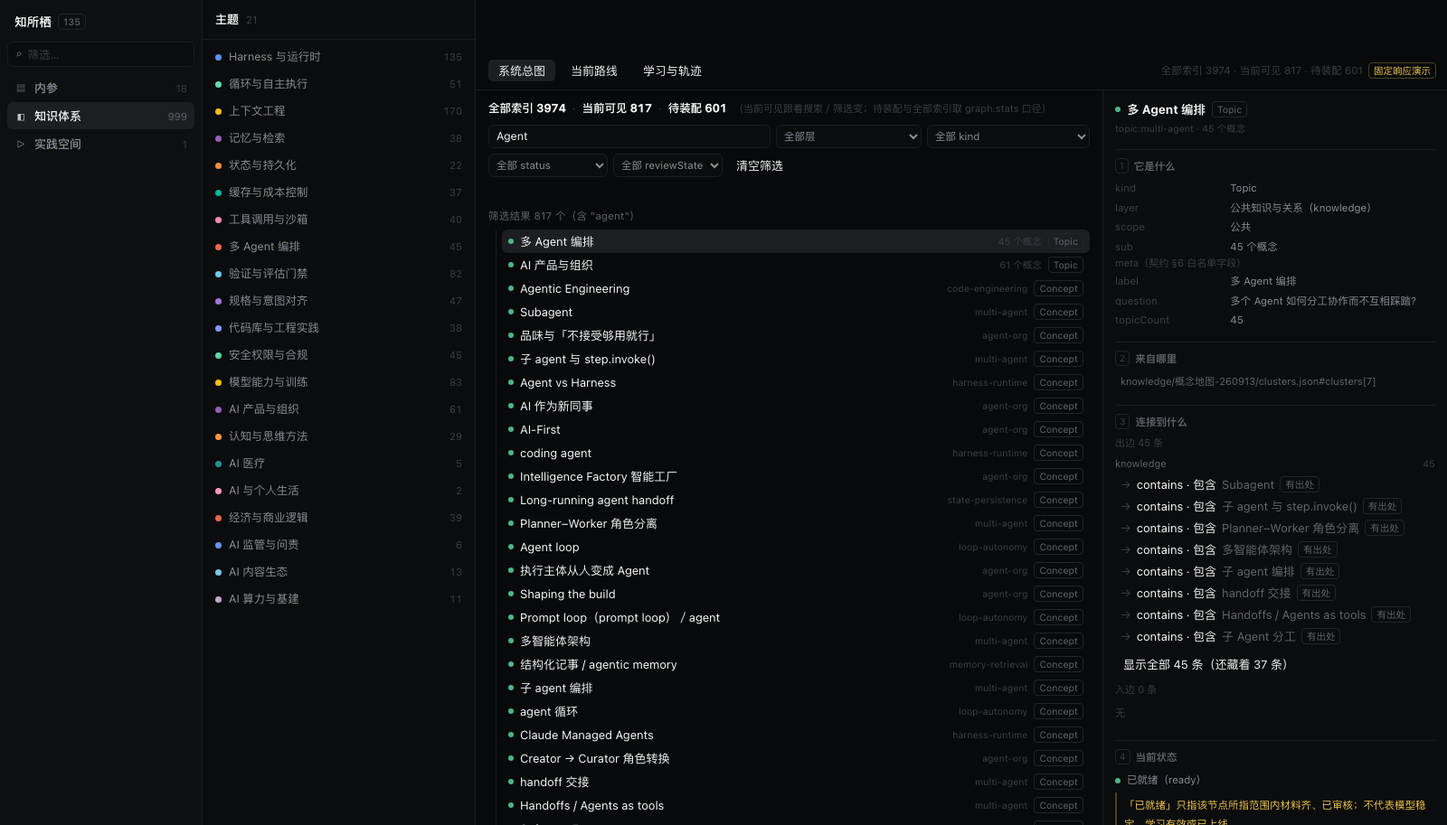
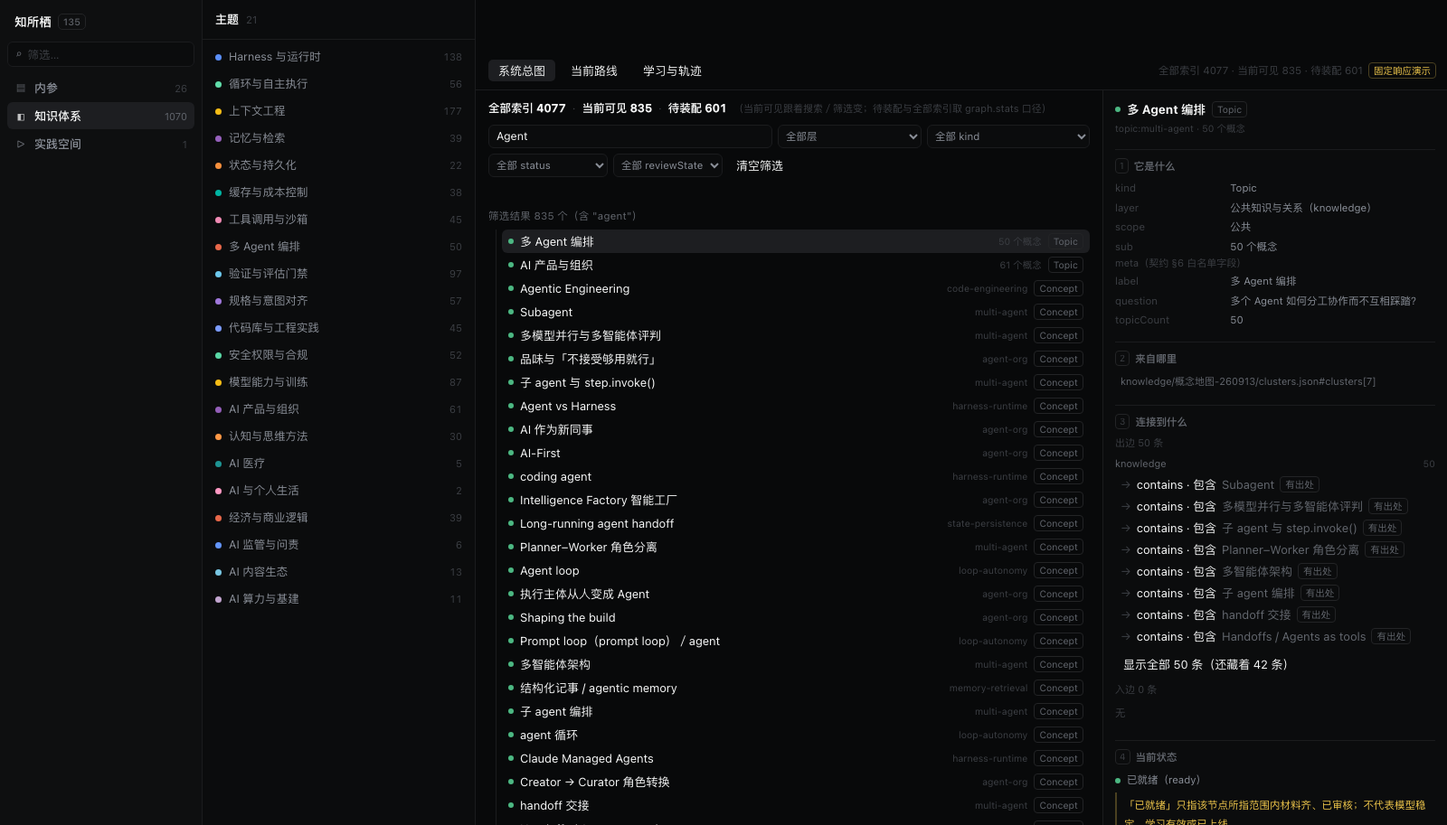
docs: 导航数字按实测改准（1070 概念 / 681 依赖 / 内参三期 / graph 4077·12837·181；check-graph 465 · check-learning-materials 363）＋工作日志第二十四轮

diff --git a/SOURCE_OF_TRUTH.md b/SOURCE_OF_TRUTH.md
@@ -7,13 +7,13 @@
 | 要找什么 | 去哪里 | 当前状态／备注 |
 |---|---|---|
 | **全景：三场会 → 做到哪了 → 方向 → 时间线**（「把最近所有东西拉出来看」的入口）★ | `docs/全景-三场会与当前进展-知所栖135.md` | 09-13 02:1x 建。三场会逐场写「定了什么 / **没定的**」＋ 六轮建设对照 ＋ 方向（做什么、明确不做什么、评审权重怎么读）＋ 到 09-19 的**绝对**时间线 ＋ 四项提交材料现状 ＋ 11 条缺口。**三条最要紧的**：① 三场会**没有任何一场产出过分工**（09-10 原话「那我们就先不分工嘛」），现行 12 条边 RACI 是工程侧单方写的、**主负责人还没认领**；② 手上这张公网 Demo **是壳、不是 135 主流程**（线上 0 处「本次尚未验收」）；③ 02:0x–02:2x 之间 `SOURCE_OF_TRUTH.md` 行 9 被**另一个会话**整体改写过（1156/647/4554/22 → 856/491/3293/21）——**这个仓库有并发写**，引用数字前先现查数据文件 |
-| **概念地图 v2（2026-09-13 全量替换旧 194 概念池；09-14 剔除非 AI 概念）** ★ | `knowledge/概念地图-260913/`（topics **999** · dependencies **632** · relations 3410 · clusters 21 · manifest · schema）＋ `knowledge/概念wiki-260913/`（999 页概念页 ＋ `[[双链]]` ＋ index/log/README） | **当前概念唯一真源**。三源＝用户 Notion 概念库 509（含逐页正文）＋ 飞书 Context Engineering 28 篇 ＋ Harness Engineering 30 篇；源快照冻结在 `evidence/概念源-260913/`（含 `SHA256SUMS.txt`），Notion 全程只读。地图照 <https://github.com/withmarbleapp/os-taxonomy>，链接层照 <https://github.com/nashsu/llm_wiki>。管线 `scripts/cm-*.mjs`（七步，两次 LLM 都带缓存可断点重跑）；体检 `node scripts/cm-validate.mjs`。**旧 194 概念池退役**，只在 `build-shell.mjs --legacy` 里留回退分支。**已按「只要 AI 的」过滤两轮**：① 09-13 按批判 1156 → 856（删 300 条非 AI，逐条带理由留 `evidence/cm-260913/07-ai-filter.json`，没物理删除）；② 09-13 并入第四个源「AI 内参 260912」（10 篇概念辞典 88 条 → 8 条撞上已有、80 条新增）→ 856 → 936；③ **09-14 逐条全量复判**（`scripts/cm-audit-context-ai.mjs`，只读；报告 `evidence/cm-260913/09-context-ai-audit.json`）判出 **18 条漏网非 AI**（neican 12 · notion 4 · harness 1 · context 1）→ `scripts/cm-drop-non-ai.mjs` 落盘 → **936 → 918**。壳里内参那一栏的 88 张概念卡 **76/88 能点回地图**（被删的 12 条内参概念从未被内参卡引用）。**每条依赖都带审核结论**（yes / weak 已降 soft / reversed-fixed；判否的边留 `rejected` 可翻案）。最终抽检：定义有原文支持 88%、**无编造**、领域 100%、依赖边成立 87.5%。**09-14 再并入第四源的第二期**：内参 260913 期 86 个概念 → 撞上已有 5 · **新增 81 节点 ＋ 41 条边**（`node scripts/cm-add-neican.mjs --issue=260913`；918→999 / 591→632；记账 `evidence/cm-260913/08-neican-merge-260913.json`，改前备份 `*.pre-neican-260913.bak`）。**已知缺口**（274 个孤立点、61 个无入链页）见下两行 |
+| **概念地图 v2（2026-09-13 全量替换旧 194 概念池；09-14 剔除非 AI 概念）** ★ | `knowledge/概念地图-260913/`（topics **1070** · dependencies **681** · relations 3459 · clusters 21 · manifest · schema）＋ `knowledge/概念wiki-260913/`（1070 页概念页 ＋ `[[双链]]` ＋ index/log/README） | **当前概念唯一真源**。三源＝用户 Notion 概念库 509（含逐页正文）＋ 飞书 Context Engineering 28 篇 ＋ Harness Engineering 30 篇；源快照冻结在 `evidence/概念源-260913/`（含 `SHA256SUMS.txt`），Notion 全程只读。地图照 <https://github.com/withmarbleapp/os-taxonomy>，链接层照 <https://github.com/nashsu/llm_wiki>。管线 `scripts/cm-*.mjs`（七步，两次 LLM 都带缓存可断点重跑）；体检 `node scripts/cm-validate.mjs`。**旧 194 概念池退役**，只在 `build-shell.mjs --legacy` 里留回退分支。**已按「只要 AI 的」过滤两轮**：① 09-13 按批判 1156 → 856（删 300 条非 AI，逐条带理由留 `evidence/cm-260913/07-ai-filter.json`，没物理删除）；② 09-13 并入第四个源「AI 内参 260912」（10 篇概念辞典 88 条 → 8 条撞上已有、80 条新增）→ 856 → 936；③ **09-14 逐条全量复判**（`scripts/cm-audit-context-ai.mjs`，只读；报告 `evidence/cm-260913/09-context-ai-audit.json`）判出 **18 条漏网非 AI**（neican 12 · notion 4 · harness 1 · context 1）→ `scripts/cm-drop-non-ai.mjs` 落盘 → **936 → 918**。壳里内参那一栏的 88 张概念卡 **76/88 能点回地图**（被删的 12 条内参概念从未被内参卡引用）。**每条依赖都带审核结论**（yes / weak 已降 soft / reversed-fixed；判否的边留 `rejected` 可翻案）。最终抽检：定义有原文支持 88%、**无编造**、领域 100%、依赖边成立 87.5%。**09-14 再并入第四源的第二期**：内参 260913 期 86 个概念 → 撞上已有 5 · **新增 81 节点 ＋ 41 条边**（`node scripts/cm-add-neican.mjs --issue=260913`；918→999 / 591→632；记账 `evidence/cm-260913/08-neican-merge-260913.json`，改前备份 `*.pre-neican-260913.bak`）。**09-14 深夜再并入第三期**：内参 260914 期 79 条概念 → 撞上已有 8 · **新增 71 节点 ＋ 49 边**（`--issue=260914`；**999→1070 / 632→681**；记账 `evidence/cm-260913/08-neican-merge-260914.json`）。**已知缺口**（274 个孤立点、61 个无入链页）见下两行 |
 | **概念地图 v2 完整说明**（三源、管线、审核一轮、数字、验收、没做的） | `docs/概念地图v2-三源替换-20260913.md` | 09-13 建；查「概念从哪来」「为什么依赖边只剩 491 条」「Notion 里那些非 AI 概念为什么在」先读它 |
 | **概念地图 v2 审核报告**（结构体检 + 分层抽检，给人看的那份） | `docs/概念地图v2-审核报告-20260913.md` | 09-13 建；**上线前的审核依据**。含 3 个已修 bug、可疑清单逐条带理由、审核前后对比。全量判决原始记录在 `evidence/cm-260913/06-audit-full.json`（**注意：该文件的 `concepts` 是空的 —— 全量概念审核的逐条记录没落盘，现存只有 `06-audit.json` 里的 60 条抽检；边的逐条判决在 `06-audit-full.json`，681 条：yes 315 / weak 320 / no 37 / reversed 9。2026-09-13 02:2x 实测**） |
 | **五语义内容工程（问题/概念/观点/案例/方案）** ★ | `内容结构化系统/`（538 单元：概念 76 · 方案 76 · 案例 76 · 观点 169 · 问题 141；7 张主题地图 · 2 份选题装配稿） | 09-13 建，`dbs-content-system` 形态。**三源与概念地图 v2 同源**（两份飞书主题精选 ＋ 图鉴站 76 张已审计概念卡），但产物不同：这里拆的是「一鱼多吃」要用的五类语义单元，供决策场/实验台/费曼验收取用。**0 次 LLM 调用**（复用 + 确定性解析）。先读 `内容结构化系统/03-处理状态/处理状态总览.md`（含 5 条已知问题：去重候选 16,025 条失控、76 个案例全是假设场景等）。交付与调用入口见 `docs/交付包-基本盘与五语义-20260913.md` |
 | **单概念学习 MVP：上下文腐烂** ★ | `prototype/mvp-decision-context-rot.html` · `scripts/test-mvp-learning.mjs` · `scripts/walk-mvp-real-llm.mjs` · `evidence/mvp-context-rot-acceptance-260913.md` · `docs/企划书-135-MVP到DeepSeek执行-20260913.md` · `docs/交接-DeepSeek-Harness-135-MVP扩展-20260913.md` | 09-13 实测：一个 CON + 一个主 CAS（明确为假设场景）→ context 阅读 → 一题一判 × 3 → 费曼；黑盒全过、0 JS 报错。**09-13 深夜补做真模型走查**（`walk-mvp-real-llm.mjs`）：真调 `/api/llm` 走完阅读 → 三题（第一题先答错）→ 费曼「未通过（列 3 个漏点）」→ 补齐 →「通过」，2 次真实调用、0 次知乎请求。**这一章仍是独立 MVP 入口、未接回概念卡；不接知乎 API，不改概念地图源数据。** |
 | **Agent Loop 六章 ＋ 独立学习空间** ★ | `evidence/agent-loop-260913/`（`pairings.json` 材料配对 · `authored.json` 题目与费曼要点 · `chapters.json` 装配产物 · `acceptance.md` 验收 · `learn-real-llm-walk-*.json` 真模型走查）· `scripts/build-learning-materials.mjs` · `scripts/check-learning-materials.mjs` · `scripts/test-learn-agent-loop.mjs` · `scripts/walk-learn-agent-loop.mjs` · `docs/交付回执-AgentLoop六章-20260913.md` | 09-13 深夜建。按 `docs/企划书-135-MVP到DeepSeek执行-20260913.md` 的方法，把 `evidence/paths-260913/routes.json` 那条人工路线**六步逐章装配**（Agent → 工具 → Agent loop → 状态子系统与进度持久化 → Harness → 验证闭环）：一个核心概念（cm_* ↔ CON-* 逐章登记对应依据与口径差异）→ 原文 context＋定义/直觉/机制/边界 → 三道决策（一题一判，18 个正确选项全部带 OPI／SOL 逐字依据）→ 费曼收尾（六套要点按章不同）。**六章主案例已由负责人确认（2026-09-14，原话「确定」）→ 六章 `ready`**；确认的是「选哪个当主案例」，**六章 CAS 仍是「假设场景」**，页面照原样显示该标记、不写成真实复盘。第 1 章口径已裁决：以 `CON-agent`「Agent 不等于 LLM」为准，概念地图卡的最小配置口径只作原文保留并标「不作本章定义」。学习空间做在壳里（全屏 `#learn`，进入时 DOM 隐藏左栏／主题列表／画布），入口＝路径条「学习这个 · 第 N 章」＋概念卡＋实践空间，`#learn=<chapterId>` 也受解锁门约束（只有带 `&review=1` 才直达，供审核／复现）；**费曼未通过／待复核都不解锁下一章，重新编辑复述立刻清掉通过状态**。**09-14 补修五项**：选项顺序按「章+题号」稳定打乱（原来 18 题里 12 题正解都在第 2 位、16 题正解是最长项）· 提交中锁住复述框＋判定代次号作废旧结果 · 草稿改动即落盘 · 通过后下一章按钮立刻解锁 · 地址入口不再绕过解锁。**09-14 六章全上「正文流」＋ 来源链进页面**：概念之间的连线写成正文里的解释句（每章导语 ＋ 过渡句 2—3 条 ＋ 关系句 3 条，各带逐字原文，页面标明 agent 撰写；第 6 章末尾改为「这条路线各自解决哪一步」）、费曼输入框挪到阅读之后（读完就讲）、右栏＝本次课题的六步单元；**来源链** `scripts/build-source-chain.mjs` → `source-chain.json`：58 篇（Context 28 ＋ Harness 30）→ **49 个原始来源**（article 31 · post 10 · documentation 5 · paper 2 · research 1）→ **76 张卡片**，49/49 来源标题能在 58 篇里逐字找到（这是「58 篇是根」的可核对证据；两边互不引用，所以「图鉴站是否以 58 篇为语料」仍是未知），页面「阅读」块显示知识根并给可点开的原始来源。实测：材料体检 **344/344** · 学习空间黑盒 **72/72 ＋ 0 JS 报错** · 真模型走查**六章各一次**（共 12 次真实调用，每章均「未通过→补齐→通过」）· 回归 `test-path`（56）／`test-case-mvp`／`test-daobi`／`shot-shell`／`check-public`／`paths-validate` 全过。**未做**：不接知乎 API · 不做 03/05 · 不让模型规划路线 · 不改概念地图源数据 · 未重建/未发布公网产物（`build-public.mjs` 新增边界：非 `ready` 章节一律从公网剥离）· 未 push |
-| **内参日报（两期：260912 五维拆解版 · 260913 三产物版）** | `knowledge/内参-260912/`（日报 md/html · 三级笔记/概念辞典/AI费曼 ×10 篇 · 拆解五维 ×10）· `knowledge/内参-260913/`（8 篇：原文快照 ＋ 三级笔记/概念辞典/AI费曼 ＋ `issue.json` ＋ 日报-260913.md）· `knowledge/llm-wiki/概念池-260912.json`（1830 唯一概念，四源合并） | 09-12 深夜建。流水线：Readwise 今日精选 → 三产物（note-taking-pro / concept-learning SOP）→ 五维拆解（3概念/1阅读梯度/3决策/5实验/费曼要点）。脚本 `scripts/build-daily-260912.mjs` · `build-deconstruct-260912.mjs` · `build-concept-pool.mjs` · `build-neican.mjs`（带缓存可断点重跑）。跳过记账 1 篇（The Information 反爬）。**这一期 10 篇已按「AI 内参」图文格式接进壳的第六格「内参」**（主题 / 重要等级 / 地址 / Claude 风格配图 / 原文子链接 / 简介 / 入选理由 / 三级笔记 / 概念网络 / 费曼 ×3，无收藏与公开笔记 —— 见 `docs/内参一栏-AI内参格式-20260912.md`）。**09-14 加 260913 期**（口径：昨天＝目标日当天 Inbox，按 `saved_at` 严格筛，**RSS 订阅流不算**——当天 70 条订阅流另有快照留证）：`scripts/pull-readwise-inbox.mjs --date 2026-09-13` → `scripts/build-neican-daily.mjs --issue 260913`（8 篇 × 3 产物 = 24 次真调用 / 319,110 tokens）→ `build-neican.mjs --issue 260913`（8 次 / 19,653 tokens）。**壳的内参栏改成多期「日报集合」**：**中间那一栏（`#list`）＝月历选日期（有内参的日子点亮 / 选中橙色 / 没内参灰掉，`‹ ›` 翻月，底下 `全部 N 期 · M 篇`）→ **分类**（条目类型）→ **策展**（重要等级；两组可折叠/叠加/清空。「标签」那组 2026-09-14 按所有者口径撤掉：标签口径不确定就不摆），**篇目不再列在中间栏**，全部在主区**按期倒序的日报卡**里（点一篇进单篇阅读），点一篇进单篇阅读（2026-09-14 所有者口径：「日期放在上方。中间的阅读位置替换为内参日报集合」）。260912 期的独立公网页 <https://hou-152.github.io/zhisuoqi-135/neican/260912.html> 保持不动；**公网单文件现在自带两期集合**，`neican/260913.html` 没做（集合已覆盖，另开一页是重复）。全文与概念池只在私有 src 仓库，不上公网 |
+| **内参日报（三期：260912 五维拆解版 · 260913 / 260914 三产物版）** | `knowledge/内参-260912/`（日报 md/html · 三级笔记/概念辞典/AI费曼 ×10 篇 · 拆解五维 ×10）· `knowledge/内参-260913/`（8 篇：原文快照 ＋ 三级笔记/概念辞典/AI费曼 ＋ `issue.json` ＋ 日报-260913.md）· `knowledge/内参-260914/`（8 篇：同 260913 口径；Bengio《What can be done to mitigate loss-of-control risks》＋ `cursor.com/cn/learn` 官方文档 7 篇）· `knowledge/llm-wiki/概念池-260912.json`（1830 唯一概念，四源合并） | 09-12 深夜建。流水线：Readwise 今日精选 → 三产物（note-taking-pro / concept-learning SOP）→ 五维拆解（3概念/1阅读梯度/3决策/5实验/费曼要点）。脚本 `scripts/build-daily-260912.mjs` · `build-deconstruct-260912.mjs` · `build-concept-pool.mjs` · `build-neican.mjs`（带缓存可断点重跑）。跳过记账 1 篇（The Information 反爬）。**这一期 10 篇已按「AI 内参」图文格式接进壳的第六格「内参」**（主题 / 重要等级 / 地址 / Claude 风格配图 / 原文子链接 / 简介 / 入选理由 / 三级笔记 / 概念网络 / 费曼 ×3，无收藏与公开笔记 —— 见 `docs/内参一栏-AI内参格式-20260912.md`）。**09-14 加 260913 期**（口径：昨天＝目标日当天 Inbox，按 `saved_at` 严格筛，**RSS 订阅流不算**——当天 70 条订阅流另有快照留证）：`scripts/pull-readwise-inbox.mjs --date 2026-09-13` → `scripts/build-neican-daily.mjs --issue 260913`（8 篇 × 3 产物 = 24 次真调用 / 319,110 tokens）→ `build-neican.mjs --issue 260913`（8 次 / 19,653 tokens）。**09-14 深夜加 260914 期**（同口径：当天 Inbox；同期订阅流 100 条不纳入）：`pull-readwise-inbox.mjs --date 2026-09-14` → `build-neican-daily.mjs --issue 260914`（8 篇 × 3 产物 = 24 次真调用 / 208,915 tokens）→ `build-neican.mjs --issue 260914`（8 次 / 20,253 tokens）；概念辞典 79 条并入地图（新增 71 节点 ＋ 49 边）。**壳的内参栏改成多期「日报集合」**：**中间那一栏（`#list`）＝月历选日期（有内参的日子点亮 / 选中橙色 / 没内参灰掉，`‹ ›` 翻月，底下 `全部 N 期 · M 篇`）→ **分类**（条目类型）→ **策展**（重要等级；两组可折叠/叠加/清空。「标签」那组 2026-09-14 按所有者口径撤掉：标签口径不确定就不摆），**篇目不再列在中间栏**，全部在主区**按期倒序的日报卡**里（点一篇进单篇阅读），点一篇进单篇阅读（2026-09-14 所有者口径：「日期放在上方。中间的阅读位置替换为内参日报集合」）。260912 期的独立公网页 <https://hou-152.github.io/zhisuoqi-135/neican/260912.html> 保持不动；**公网单文件现在自带三期集合**，`neican/260913.html` / `neican/260914.html` 没做（集合已覆盖，另开一页是重复）。全文与概念池只在私有 src 仓库，不上公网 |
 | **09-12 凌晨回填**（dbs-learning-beta、AB 测试、记忆方案 5 路极端推演） | `docs/交接-agent版-知所栖135.md` 开头的「09-12 凌晨回填」节 | 最新；**含对本文件下方记忆方案假设的推翻**，冲突时以该节为准 |
 | **对话总索引＋未落地清单**（全部 58 个对话的清单、产出映射、未落地结论差距分析、未裁决事项真实状态） | `docs/对话总索引-知所栖135.md` | 09-12 建；查「某个结论是从哪次对话来的」「哪条结论只在对话里没落盘」先读它 |
 | **对话原始留档**（DSH 56 + ZCode 2 个会话的可读 Markdown，只读证据） | `evidence/对话留档-知所栖135/`（含 `README.md` 与 `_index.json`） | 09-12 建；**不是结论**，结论仍以本文件与 `docs/`、`research/` 为准 |
@@ -44,19 +44,19 @@
 | **交给 Codex 的重构交接件** ★ | `docs/交接-Codex重构版-知所栖135.md` | **09-12 建，给「重构」用**（不是给继续加功能用）。只读这一份就能动手：代码真实形状（四个产物/三条构建链/两个 HTML 零共享代码/概念池解析重复 8 遍/LLM 样板重复 10 遍）· **重构要解决的 8 个问题（逐条带文件行号）** · 死件清单（`mcp.html` 263KB 零引用等）· 硬边界 · 改完必须跑过的 6 个验收 + 5 条铁律 · D1–D6 决策状态 · 已核实/未核实 · **7 条未决事项** · 建议的重构顺序（前两步零行为变更）。**注：`交接-Codex执行版` 写于 09-12 07:3x，代码部分已被第二轮覆盖，勿再当代码依据** |
 | 交给 Codex 执行的交接件（**代码部分已过期**）（要做什么 / 边界 / 验收 / 任务清单 / **方法与参考来源总表** / **APP 视图规格** / **三条线合流**） | `docs/交接-Codex执行版-知所栖135.md` | 09-12 建并当日补章；**只承载任务，不承载事实**，事实冲突仍回 agent 版。含：决策状态快照 D1–D6、执行清单 E1–E11、目标形态与打包选型、**§11 方法总表**、**§12 参考来源总表**（GitHub/官方标准/学习科学文献，已核实与未核实分栏）、**§13 部署候选评估**、**§14 APP 视图规格（Linear 式，含「待判断 266」队列）**、**§15 概念框架与推进计划**、**§16 三条线合流（知乎 API × dbs-standard-answer × dbs-learning-beta）** |
 | 可演示主产物 | `prototype/知所栖-135-基础框架.html` | v3.1，双击可开；61/61 自动验证通过；费曼验收层已加「限速器」。09-12 07:43 由 Codex 修过模式状态与费曼兜底（提交 `8360359`） |
-| **壳：知识体系 + 内参两栏**（**09-13 减法后**——旧版是「图 + 框架 + agent 三合一」） | `prototype/知所栖-壳.html` | **09-13 03:1x 按所有者指令做减法**（原话：「只保留内参+知识体系。知识体系直接按主题分，也就是把那个策展的功能给取代掉了。然后『我在学』和『对话』，还有下面这个栏，该做减法的就做减法，因为到时候要去交给我的队友去做另外的一些功能」）。**tab 板（图谱 / 星球）09-13 提到三栏之上**：横跨列表栏与主区、位于「知识体系」那一行**上方**，导航栏跨两行一路到底（所有者要求「内层的 tab 板要在更上方，优于知识体系」）。**左栏＝品牌 + 搜索框 + 两个导航项 + 主题分类列表**（21 条；样式照所有者给的 candobear BoK 参考图：分组标题「主题」+ 右侧「全选」，每行 8px 彩点 + 名称 + 右对齐数字；点一条＝只看这一列、再点取消）——追加① 曾把这块整片删掉，追加③ 按参考图做回来。09-13 第二轮补删又去掉了左栏的「主题 · 点击筛选」标题、21 条主题图例、底部 `0 0 0 ／936` 状态点（现为 918）（所有者：「都不要了」）；**画布上仍按 21 个主题分列**（`groups()` / `giOf()` 没动），只是不再在左栏列第二遍。**底部 `import`/`insert`/`Agent` 那条栏整条删除**；横轴**固定按主题分列**（21 条线），旧的「怎么验 / 按来源」两档与 `setAxis` 一起撤掉——验收方式仍逐张写在概念卡上（`KIND`），只是不再当分列轴。**删掉的四个视图**（策展 / 待你看一眼 / 我在学 / 对话）连同代码路径、CSS、`/api/skills` 与 `/api/llm` 的前端调用方一起删；`localStorage` 里的 `marks`（费曼验收记录）保留，概念面板的倒逼判定照旧。模板 1865 → 1160 行，壳 1.20 MB → 1.16 MB（大头是概念 payload，不是代码；09-14 剔除非 AI 后 918 概念 / 1.27 MB）。Linear 式三栏结构不变（导航 224 / 列表 302 / 主区 / 详情 412 停靠让位）。**「内参」一栏（09-14 改成多期集合）**：左栏列表＝**当前选中那期**的篇目（「全部」时按期分组列两期全 18 篇），主区 `#reader` 默认屏是**内参日报集合**——上方粘性日期条（`全部 N 期` ＋ 每期一片：日期 / 星期 / 篇数）＋ 按期倒序的日报卡（期号 · 日期 · 篇数 · 目录：主题 ＋ 原标题 ＋ 一句话主旨 ＋ ★ ＋「读 →」）；点一篇进单篇阅读（三级笔记 / 概念网络 / 费曼 / 阅读原文，有拆解五维的那期多一个「五维」签），正文页的返回键在日期条左侧、常驻可见。**默认不选中任何一期**（`neiPeriod=''`）——中间必须是集合本身，不是某一期。数据＝`knowledge/内参-<期>/内参-页面数据.json` 全部期（`scripts/build-neican.mjs --issue=<期>` 逐期生成，`build-shell.mjs` 装成 `DATA.neican.issues`，新 → 旧）。概念面板的「深看」折叠块（掌握证据 / 验收问句 / 学习时机）不变；**「费曼一下 / 原文 context / 别名」09-13 15:5x 拆门**——原来锁在「过了才给」后面（判过才渲染），现在 918 张卡随时可看，展开**不写任何验收状态**（倒逼状态机没动）；**「来源」由死标签改成可点**（`cm-wire.mjs` 出 `articles` 表：294 条 ＝ 65 篇原文 ＋ 229 个 Notion 页，节点用 `sa` 指过来；卡上列前 6 篇 ＋ 每篇的「同源概念」）。同轮修掉两个真 bug：`sourceContext`（原 919/936）与 `aliases`（原 414/936）**一直没被搬进 payload**，卡上那两栏是空的；`assessmentPrompt` 里 **原 922/936 条**留着未替换的 `{{name}}` 占位符（改在 `cm-wire` 出线前替换；地图 JSON 里仍在）。源：`scripts/shell.template.html` ＋ `scripts/build-shell.mjs`。**09-13 19:2x 加「路径」视图**：主区顶部变成 `路径｜图谱｜关系｜星球`，**路径是默认**；左上 262px 路径条＝方案 B 的导师（第 N 步/共 6 步 · 为什么现在学 · 前置 · 下一步 · 卡住回退 · 分支 ≤2 · 回到全图），画布上路线 6 点标号加亮、当前步白环、其余变灰缩小（仍可点）；概念卡顶部加路径上下文；主题下钻后顶部出现路径入口。**必须经服务打开**：`node scripts/serve-135.mjs` → `http://127.0.0.1:5180/知所栖-壳.html`。**09-13 减法后验收全重跑通过**：`shot-shell.mjs`（13 步 + 0 JS 报错）· `test-daobi.mjs`（29 项）· `check-public.mjs`（21 项）· `test-app.mjs`（12 项）。**09-13 15:5x 追加后重跑**：`test-daobi.mjs` **40 项全过** · `shot-shell.mjs` 0 JS 报错 · `check-public.mjs` 全过（壳 1.39 → 1.76 MB，增的是 sources/context/别名，不是代码） |
+| **壳：知识体系 + 内参两栏**（**09-13 减法后**——旧版是「图 + 框架 + agent 三合一」） | `prototype/知所栖-壳.html` | **09-13 03:1x 按所有者指令做减法**（原话：「只保留内参+知识体系。知识体系直接按主题分，也就是把那个策展的功能给取代掉了。然后『我在学』和『对话』，还有下面这个栏，该做减法的就做减法，因为到时候要去交给我的队友去做另外的一些功能」）。**tab 板（图谱 / 星球）09-13 提到三栏之上**：横跨列表栏与主区、位于「知识体系」那一行**上方**，导航栏跨两行一路到底（所有者要求「内层的 tab 板要在更上方，优于知识体系」）。**左栏＝品牌 + 搜索框 + 两个导航项 + 主题分类列表**（21 条；样式照所有者给的 candobear BoK 参考图：分组标题「主题」+ 右侧「全选」，每行 8px 彩点 + 名称 + 右对齐数字；点一条＝只看这一列、再点取消）——追加① 曾把这块整片删掉，追加③ 按参考图做回来。09-13 第二轮补删又去掉了左栏的「主题 · 点击筛选」标题、21 条主题图例、底部 `0 0 0 ／936` 状态点（现为 918）（所有者：「都不要了」）；**画布上仍按 21 个主题分列**（`groups()` / `giOf()` 没动），只是不再在左栏列第二遍。**底部 `import`/`insert`/`Agent` 那条栏整条删除**；横轴**固定按主题分列**（21 条线），旧的「怎么验 / 按来源」两档与 `setAxis` 一起撤掉——验收方式仍逐张写在概念卡上（`KIND`），只是不再当分列轴。**删掉的四个视图**（策展 / 待你看一眼 / 我在学 / 对话）连同代码路径、CSS、`/api/skills` 与 `/api/llm` 的前端调用方一起删；`localStorage` 里的 `marks`（费曼验收记录）保留，概念面板的倒逼判定照旧。模板 1865 → 1160 行，壳 1.20 MB → 1.16 MB（大头是概念 payload，不是代码；09-14 剔除非 AI 后 918 概念 / 1.27 MB；同日夜并入 260913 / 260914 两期内参概念后 **1070 概念 / 2.0 MB**）。Linear 式三栏结构不变（导航 224 / 列表 302 / 主区 / 详情 412 停靠让位）。**「内参」一栏（09-14 改成多期集合）**：左栏列表＝**当前选中那期**的篇目（「全部」时按期分组列三期全 26 篇），主区 `#reader` 默认屏是**内参日报集合**——上方粘性日期条（`全部 N 期` ＋ 每期一片：日期 / 星期 / 篇数）＋ 按期倒序的日报卡（期号 · 日期 · 篇数 · 目录：主题 ＋ 原标题 ＋ 一句话主旨 ＋ ★ ＋「读 →」）；点一篇进单篇阅读（三级笔记 / 概念网络 / 费曼 / 阅读原文，有拆解五维的那期多一个「五维」签），正文页的返回键在日期条左侧、常驻可见。**默认不选中任何一期**（`neiPeriod=''`）——中间必须是集合本身，不是某一期。数据＝`knowledge/内参-<期>/内参-页面数据.json` 全部期（`scripts/build-neican.mjs --issue=<期>` 逐期生成，`build-shell.mjs` 装成 `DATA.neican.issues`，新 → 旧）。概念面板的「深看」折叠块（掌握证据 / 验收问句 / 学习时机）不变；**「费曼一下 / 原文 context / 别名」09-13 15:5x 拆门**——原来锁在「过了才给」后面（判过才渲染），现在 918 张卡随时可看，展开**不写任何验收状态**（倒逼状态机没动）；**「来源」由死标签改成可点**（`cm-wire.mjs` 出 `articles` 表：294 条 ＝ 65 篇原文 ＋ 229 个 Notion 页，节点用 `sa` 指过来；卡上列前 6 篇 ＋ 每篇的「同源概念」）。同轮修掉两个真 bug：`sourceContext`（原 919/936）与 `aliases`（原 414/936）**一直没被搬进 payload**，卡上那两栏是空的；`assessmentPrompt` 里 **原 922/936 条**留着未替换的 `{{name}}` 占位符（改在 `cm-wire` 出线前替换；地图 JSON 里仍在）。源：`scripts/shell.template.html` ＋ `scripts/build-shell.mjs`。**09-13 19:2x 加「路径」视图**：主区顶部变成 `路径｜图谱｜关系｜星球`，**路径是默认**；左上 262px 路径条＝方案 B 的导师（第 N 步/共 6 步 · 为什么现在学 · 前置 · 下一步 · 卡住回退 · 分支 ≤2 · 回到全图），画布上路线 6 点标号加亮、当前步白环、其余变灰缩小（仍可点）；概念卡顶部加路径上下文；主题下钻后顶部出现路径入口。**必须经服务打开**：`node scripts/serve-135.mjs` → `http://127.0.0.1:5180/知所栖-壳.html`。**09-13 减法后验收全重跑通过**：`shot-shell.mjs`（13 步 + 0 JS 报错）· `test-daobi.mjs`（29 项）· `check-public.mjs`（21 项）· `test-app.mjs`（12 项）。**09-13 15:5x 追加后重跑**：`test-daobi.mjs` **40 项全过** · `shot-shell.mjs` 0 JS 报错 · `check-public.mjs` 全过（壳 1.39 → 1.76 MB，增的是 sources/context/别名，不是代码） |
 | **路径视图**（前置内容／学习路径：一条真实 6 步路线）★ | `evidence/paths-260913/routes.json`（路线配置，**独立于概念图谱**，顺序不写回 `topics.json` / `dependencies.json`）· `scripts/paths-validate.mjs`（体检：ID/预算/分支理由/hard 边对照）· `docs/路径视图-实现-20260913.md`（实现说明）· `scripts/test-path.mjs`（**50 条验收**） | 09-13 19:2x 按 `docs/路径视图-PLAN-20260913.md` ＋ `docs/路径视图-HANDOFF-DeepSeek-20260913.md` 实现（方案 B「导师编排」＋ C「路径地图」）。路线：**Agent → 工具 → Agent loop → 状态子系统与进度持久化 → Harness → 验证闭环**（真实 `cm_*` ID，逐条核过，不许猜）；入口问题「为什么 AI 能连续做事，而不只回答一次？」；主题挂 `loop-autonomy`。四类关系按 HANDOFF §五 映射现有字段（hard/soft ← `dependencies.strength`；support ← 来源＋掌握证据；related ← 非 prerequisite 的关系边），**没改全量关系数据结构**。**必须照实说**：这条路线在 `dependencies.json` 里**一条 hard 前置都没有**（Agent/Harness 是 0 条，其余各 1—2 条 soft），所以顺序**全部来自人工策展**，页面上的「卡住回退」取路线里的上一步并标 `basis: route`，**不冒充 hard**。**没做**：不为 21 个主题批量编路线（只有 1 个主题有）· 不让 LLM 自由规划 · 不改概念地图源数据 · 不改公网产物 · 不 push |
 
 | **新手走查结论**（真实浏览器全流程、2 个 P0 演示风险、6 条卡点） | `docs/新手走查-135原型-260912.md` | 09-12；截图在 `output/playwright/`；**路演前先读，P0 都是改 `prototype/` 前需授权的项** |
 | **每一轮做了什么、验过没有**（09-12 六层重做 → 09-12 内参一栏 → 09-13 概念地图 v2 + 审核 + AI 过滤 + 上线）**的总入口** | `docs/工作日志-知所栖135.md` | **先读这里再读下面**。每轮记起因（所有者原话）、做了什么、落点文件、**没做什么**、验收脚本总表、未决事项、技术债、铁律。各层细节：策展 `docs/策展层-194点10条线-20260912.md` · 倒逼 `docs/倒逼层-概念图不是摆设-20260912.md` · 分类 `docs/分类层-要你怎么处理它-20260912.md` · 外壳 `docs/外壳-Linear三栏-20260912.md` · 桌面 `docs/桌面版-为什么要有它-20260912.md` · 三层 skill 调用 `docs/怎么调用DBS-skill-三层路径.md` |
 | **远程协作与接口机制**（时差怎么补 · 谁交给谁 · 卡住找谁 · 演示怎么走） | `docs/协作机制-远程时差版-知所栖135.md`（四条铁规 · 冻结线 · 班次交接件 5 行 · PR 规则 · 兜底人）· **`docs/接口机制-麦肯锡式-知所栖135.md`**（六个咨询业方法 → 本项目动作 · **12 条边 RACI** · 交接单/异步站会/事前验尸三个模板）· `docs/前端契约-知所栖135.md`（7 接口 · 3 数据源 · 5 屏 · 三个硬要求 · tokens）· `docs/演示脚本骨架-知所栖135.md`（30 秒开场 · 五幕 · 风险对答）· `docs/JTBD-填空版-知所栖135.md`（**6 个空待主负责人填**） | 09-13 建（**此四份此前都不在本导航里**）。**问「谁交给谁、几点前、卡住找谁」先读麦肯锡式那份**；问「字段名是什么」读契约（唯一冻结面：加可、改不可）；问「没有前后端经验怎么办」也从麦肯锡式那份起。**此条 09-13 02:5x 更新：mock 已产出，见下一行**。**仍未解决的**：契约与铁规此前在「改哪个文件」上互相矛盾 —— 5 屏住在 `prototype/知所栖-135-基础框架.html`（手改源文件），不在壳里，而契约 §一 指向 `scripts/shell.template.html`、铁规 2 又写「不碰 `prototype/` 下的产物」；**已修**（契约加文件地图，铁规 2 点名两个产物） |
 | **开工单 ＋ 前端离线开发包（mock）** ★ | `docs/开工单-知所栖135.md`（一页发群件：**形态第一条** ＋ 四个人今天各自的第一件事 ＋ **绝对死线** ＋ 怎么算通过 ＋ 三件必交但无人认领）· `evidence/mock/`（`mock-fetch.js` 丢一行即可**离线开工** · `fixtures.json` 真响应样本 · `screens.md` 5 屏 × 数据 × 状态反馈对照）· 生成 `scripts/make-mock.mjs [--record]` · 验收 `scripts/verify-mock.mjs`（59 项，**不需要 serve**）＋ `scripts/verify-mock-browser.mjs`（11 项，**真无头 Chrome，在 `about:blank` 上跑**） | 09-13 02:5x 建，**59/59 ＋ 11/11 实测通过**（12 条边里唯一缺的交付物，已交）。「前端不连服务就能做 5 屏」是**实跑结论**：浏览器验收先证「不注入 mock 时 `fetch('/api/health')` 到不了后端」，再证注入后四端点全通、费曼两种态都出得来；`__MOCK__.force('…')` 可强制任一状态。mock 里 4 条 `/api/llm` 是**真录**（非占位）：1 阅读 `skill=dbs-learning` 1680 字 · 费曼判定过 `covered:[0,1]` · 漏 `covered:[]` · 失败态 `{error:'llm-not-configured…'}`。**verify-mock 有一半断言去真实源码里现查键名**（`j.items` / `it.excerpt` / `j.content` / `r.covered` / `Data.Items` 大小写坑）——**代码改了字段名这条命令就红**，mock 不会悄悄过期。**形态**（一次一题 · 答完立刻判 · 每题都能点回原文）此前不在任何文件里，已写入 `docs/前端契约-知所栖135.md` 顶部作**契约第一条**；契约 §一 增「前端的文件地图」，§七 由角色名**换成真名**（崇铭／capo／肖力臣／却白）并加「内容 ≠ 文库」术语护栏 |
-| **公网 Demo（赛制必交件）** ✅ | **<https://hou-152.github.io/>**（裸域名，自动跳 135）→ <https://hou-152.github.io/zhisuoqi-135/>；**离线单文件** <https://github.com/hou-152/zhisuoqi-135/raw/main/index.html>（双击就开，不联网） | **09-13 换成「概念地图 v2」终版（当时 936 概念 / 531 依赖 / 21 条线）并已线上核验**（2026-09-13 05:0x 实测：curl 线上 `index.html` 与本地公网仓库 HEAD `b5c5688` **SHA-256 逐字节一致**；页面内 nodes 936 · edges 531 · origin 四源 notion 226 / context 315 / harness 373 / neican 80）（页面内 stats ＋ 对线上地址跑 `check-public.mjs` 全过）。09-12 上线，单文件零依赖零服务端。构建 `scripts/build-public.mjs`（源 `prototype/知所栖-壳.html`）→ `deploy/zhisuoqi-135/`；验收 `scripts/check-public.mjs`（**必须假域名 + `--host-resolver-rules`**，用 127.0.0.1 会走服务端分支）。对话三条路：本地服务端 → 访客自带 key（只进他自己 localStorage）→ 录制回放（**明说不是本次回答**，`scripts/record-replays.mjs`）。**备用通道仍 404**：`deploy/zhisuoqi/dist/135.html` 已放好，要 Codex push 才有 `zhisuoqi.sibohou792.chatgpt.site/135.html`。根站仓库 `deploy/root-site/` 只为堵裸域名 404。**国内可达性**：阿里/DNSPod/360 三大国内 DNS 均返回真 IP（185.199.108-111.153，未被污染），但**无法从墙内直连验证 TCP**。**09-13 减法后**：对话三条路（服务端 / 访客 key / 录制回放）随对话层一起删除，公网版只剩 知识体系（按主题）+ 内参 + 无服务端时的机械兜底判定；`deploy/zhisuoqi-135/index.html` 与 `prototype/知所栖-135-公网版.html` 已重建。**2026-09-14 已 push 上线五次**（公网仓库 `main`：`3d03a60` 日期片版 → `3a6de88` 月历版 → `dfac7e8` 侧栏（主区版）→ `05b6112` 搬进中间栏 + 撤掉篇目列表 → **`6f86913` 撤掉「标签」那组**）：线上＝**999 概念 / 632 依赖 ＋ 内参两期「日报集合」**（上方月历 ＋ 中间日报卡）单文件；**线上 `index.html` 与本地逐字节一致（SHA-256 `388381da…`），并对线上地址跑 `check-public.mjs` 34 项全过**（实测）。**注**：`3a6de88` 从共享壳模板重建，同时带上了并发会话的「五维 · 即时费曼」分页。`deploy/zhisuoqi/dist/135.html`（ChatGPT Sites 备用通道）仍是旧产物、未重建 |
+| **公网 Demo（赛制必交件）** ✅ | **<https://hou-152.github.io/>**（裸域名，自动跳 135）→ <https://hou-152.github.io/zhisuoqi-135/>；**离线单文件** <https://github.com/hou-152/zhisuoqi-135/raw/main/index.html>（双击就开，不联网） | **09-13 换成「概念地图 v2」终版（当时 936 概念 / 531 依赖 / 21 条线）并已线上核验**（2026-09-13 05:0x 实测：curl 线上 `index.html` 与本地公网仓库 HEAD `b5c5688` **SHA-256 逐字节一致**；页面内 nodes 936 · edges 531 · origin 四源 notion 226 / context 315 / harness 373 / neican 80）（页面内 stats ＋ 对线上地址跑 `check-public.mjs` 全过）。09-12 上线，单文件零依赖零服务端。构建 `scripts/build-public.mjs`（源 `prototype/知所栖-壳.html`）→ `deploy/zhisuoqi-135/`；验收 `scripts/check-public.mjs`（**必须假域名 + `--host-resolver-rules`**，用 127.0.0.1 会走服务端分支）。对话三条路：本地服务端 → 访客自带 key（只进他自己 localStorage）→ 录制回放（**明说不是本次回答**，`scripts/record-replays.mjs`）。**备用通道仍 404**：`deploy/zhisuoqi/dist/135.html` 已放好，要 Codex push 才有 `zhisuoqi.sibohou792.chatgpt.site/135.html`。根站仓库 `deploy/root-site/` 只为堵裸域名 404。**国内可达性**：阿里/DNSPod/360 三大国内 DNS 均返回真 IP（185.199.108-111.153，未被污染），但**无法从墙内直连验证 TCP**。**09-13 减法后**：对话三条路（服务端 / 访客 key / 录制回放）随对话层一起删除，公网版只剩 知识体系（按主题）+ 内参 + 无服务端时的机械兜底判定；`deploy/zhisuoqi-135/index.html` 与 `prototype/知所栖-135-公网版.html` 已重建。**2026-09-14 已 push 上线六次**（公网仓库 `main`：`3d03a60` 日期片版 → `3a6de88` 月历版 → `dfac7e8` 侧栏（主区版）→ `05b6112` 搬进中间栏 + 撤掉篇目列表 → `6f86913` 撤掉「标签」那组 → **`aca619d` 加内参 260914 期**）：线上＝**1070 概念 / 681 依赖 ＋ 内参三期「日报集合」**（260914 / 260913 / 260912 共 26 篇；上方月历 ＋ 中间日报卡）单文件；**线上 `index.html` 与本地逐字节一致（SHA-256 `df40b959…`，3,163,654 字节），并对线上地址跑 `check-public.mjs` 全过**（实测）。**注**：`3a6de88` 从共享壳模板重建，同时带上了并发会话的「五维 · 即时费曼」分页。`deploy/zhisuoqi/dist/135.html`（ChatGPT Sites 备用通道）仍是旧产物、未重建 |
 | **桌面版（Electron）：能写真文件的那一版** | `docs/桌面版-为什么要有它-20260912.md`；代码 `app/`；构建 `scripts/build-app.mjs`；验收 `scripts/test-app.mjs` | 09-12 建。网页版做不到的两件事：学习记录落 `~/Documents/知所栖-135/学习记录.json`（不是 localStorage）+ skill 产物落 `产物/<课题>.md`（**`dbs-learning-beta` 的 SKILL.md 写死的那条路径第一次被兑现**）。打包 macOS arm64 306MB 解包 / 122MB zip，**未签名未公证**。**不内置 key**（`/api/health` 回 `llm:false` 是对的），构建时自检扫 `.private/` 类文件，命中即失败 |
 | **本地服务（唯一一份）+ 全部验收脚本** | 服务本体 `scripts/serve-lib.mjs`（**命令行壳与桌面版 import 同一份**）→ 壳 `scripts/serve-135.mjs`（5180）· `app/main.js`（随机端口）。验收：`scripts/verify-135.mjs`（61 项）· `test-daobi.mjs`（40）· `test-path.mjs`（50）· `paths-validate.mjs`（路线体检）· `check-public.mjs`（23）· `shot-shell.mjs`（截图+越界断言）· `test-app.mjs`（12，桌面版）· `ab-feynman-test.mjs`（AB）。**概念地图 v2 管线**：`cm-fetch-notion.mjs` · `cm-extract.mjs` · `cm-merge.mjs` · `cm-enrich.mjs` · `cm-edges.mjs` · `cm-build-map.mjs` · `cm-build-wiki.mjs` · `cm-wire.mjs` · `cm-validate.mjs`。构建/生成：`build-shell.mjs` · `build-public.mjs` · `build-app.mjs` · `build-neican.mjs --issue=<期>` · `pull-readwise-inbox.mjs --date=YYYY-MM-DD`（Readwise Inbox 当日新增收藏 → 原文快照 ＋ issue.json）· `build-neican-daily.mjs --issue=<期>`（三产物：三级笔记/概念辞典/AI费曼）· `record-replays.mjs`；（旧 194 池管线 `curate-concepts.mjs` · `curate-edges.mjs` · `classify-concepts.mjs` 保留但已不在主链上）。接口：`/api/health` `/api/skills` `/api/search` `/api/llm` `/api/save` `/api/data` | 见工作日志「验收脚本总表」。**09-12 修三处**：① `decodeURIComponent(url.pathname)`——此前百分号编码不解码，**所有中文文件名的页面除 `/` 外全 404**；② `/api/llm` 加 `json:false` 开关——此前写死 `response_format: json_object`，对话类请求会被 DeepSeek 拒（400）；③ 新增 `GET /api/skills` 与 `POST /api/llm` 的 `skill` 字段——服务端读 `.agents/skills/<name>/SKILL.md` 原文当 system prompt（带 `^[a-z0-9-]+$` 目录穿越防护）。改完回归 **61/61 通过**。**09-13 换概念源后**：上面五套验收全部重跑通过 |
 | LLM 接入配置（勿入库、勿展示） | `.private/llm.env` | 600，gitignored，DeepSeek；serve 自动加载；`/api/health` 看 `llm:true` |
 | AB 冒烟测试证据（**不是**实验结果） | `evidence/ab-feynman-smoke-test.json` | 09-12；只证三组跑通，样本太少无法区分 |
-| **代码仓库** | **源仓库 <https://github.com/hou-152/zhisuoqi-135-src>**（已转为公开）；公网产物仓库 <https://github.com/hou-152/zhisuoqi-135>（只放构建产物） | **不写死提交数**（此前写「4 个」→ 实测 8 → 再实测 17，连续两次过期；要数字自己跑 `git rev-list --count HEAD`）。**推之前扫过：329 个跟踪文件里 0 处真 key**，远端 388 个文件无 `.private/` / `llm.env` / `access-secret` / `app/assets/` / `node_modules/`。**公开推送此前一直没做** —— 原先卡在「15 个 dbs skill 原文的再分发范围」，**该未决事项已于 2026-09-13 由所有者当场撤销**（原话：「DBS 的 Skill 本来就是公开的」；上游 dbskill 公开分发）。所以公开不再有内容障碍；`.private/` `.local/` `.mimosa/` `.DS_Store` `deploy/zhisuoqi/` `.trash/` `.playwright-cli/` 均已 gitignore；**2026-09-14 已推 GitHub**：`feat/neican-260912-daily → main` 合并完成（合并提交 `8a16a55` ＋ 重烘产物 `2e7204c`；10 处冲突以**分支为准**，依据是「main 新增 471 行里 457 行分支已有」的实测），两个分支都在远端。**2026-09-14 当天再把工作区全量提交并合并**：`feat` = **`f8b5b2d`**（303 个文件 / +47614 −9218，含本轮内参 260913 与多期日报集合 ＋ 并行会话的六章/五维改动，一并如实记录）→ `main` = **`a364f54`**（合并无残留冲突，合并树跑交付三套 **49/49 · 29/29 · 14/14**，`topics 999 = shell-payload 999`）。**GitHub 的 main 与线上公网站现在同版：999 概念 / 632 依赖** |
+| **代码仓库** | **源仓库 <https://github.com/hou-152/zhisuoqi-135-src>**（已转为公开）；公网产物仓库 <https://github.com/hou-152/zhisuoqi-135>（只放构建产物） | **不写死提交数**（此前写「4 个」→ 实测 8 → 再实测 17，连续两次过期；要数字自己跑 `git rev-list --count HEAD`）。**推之前扫过：329 个跟踪文件里 0 处真 key**，远端 388 个文件无 `.private/` / `llm.env` / `access-secret` / `app/assets/` / `node_modules/`。**公开推送此前一直没做** —— 原先卡在「15 个 dbs skill 原文的再分发范围」，**该未决事项已于 2026-09-13 由所有者当场撤销**（原话：「DBS 的 Skill 本来就是公开的」；上游 dbskill 公开分发）。所以公开不再有内容障碍；`.private/` `.local/` `.mimosa/` `.DS_Store` `deploy/zhisuoqi/` `.trash/` `.playwright-cli/` 均已 gitignore；**2026-09-14 已推 GitHub**：`feat/neican-260912-daily → main` 合并完成（合并提交 `8a16a55` ＋ 重烘产物 `2e7204c`；10 处冲突以**分支为准**，依据是「main 新增 471 行里 457 行分支已有」的实测），两个分支都在远端。**2026-09-14 当天再把工作区全量提交并合并**：`feat` = **`f8b5b2d`**（303 个文件 / +47614 −9218，含本轮内参 260913 与多期日报集合 ＋ 并行会话的六章/五维改动，一并如实记录）→ `main` = **`a364f54`**（合并无残留冲突，合并树跑交付三套 **49/49 · 29/29 · 14/14**，`topics 999 = shell-payload 999`）。**GitHub 的 main 与线上公网站现在同版：1070 概念 / 681 依赖 ＋ 内参三期**；09-14 深夜源仓库再提交 **`d99ecac`**（本轮内参 260914 全链 ＋ 概念并入，144 个文件；同一时段还有并发会话的 `f04260f`，一并如实记录） |
 | 知乎 CLI 用法（勿跑 auth／init） | `docs/知乎CLI-项目安装与调用.md` | 凭证在 `.private/`，不入库 |
 | **知乎 API 全量实测**（13 项接口矩阵、额度按天刷新、直答三模型差异、一处产品待修缺陷） | `docs/知乎API-实测-260912.md` | 09-12 02:00；原始输出在 `evidence/zhihu-api-全量实测-原始输出-260912.md`；接新接口或改路演边界前先读 |
 | 知乎 API 能力盘点（额度实况、直答可用、问题推荐**不可用**） | `docs/AI内参-落地依据与形态收敛.md` 第 3.5 节 | 09-12 实测；**其中三处结论已被上一行修订**（额度周期／`question answers` 可用／直答三模型） |
